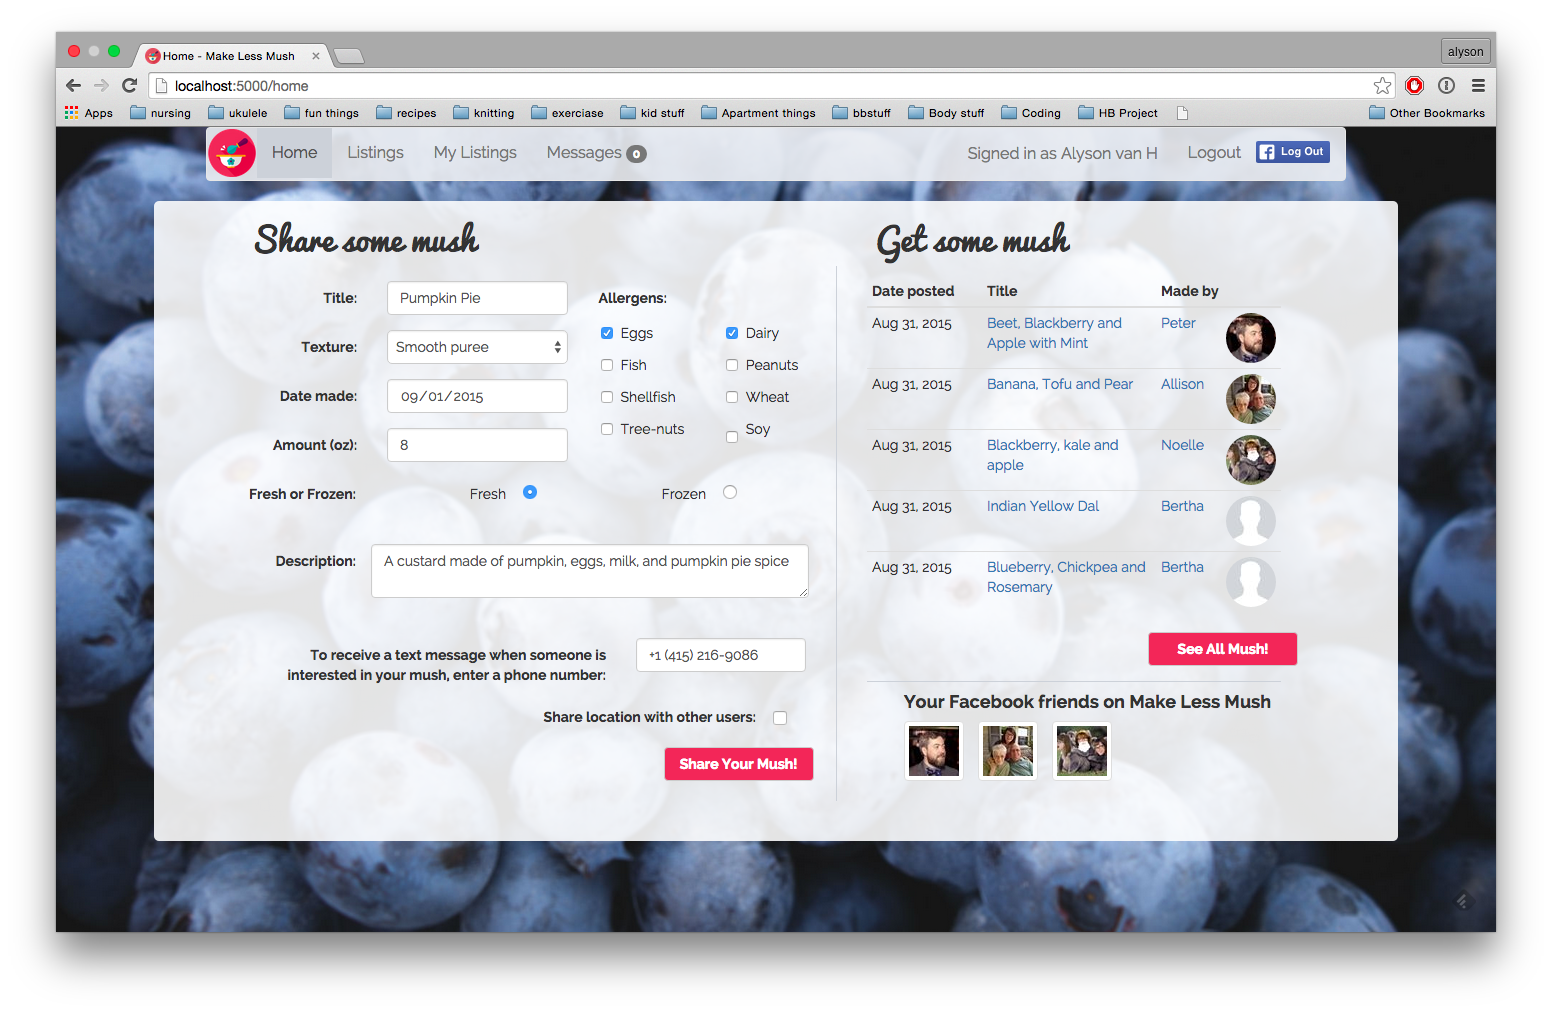
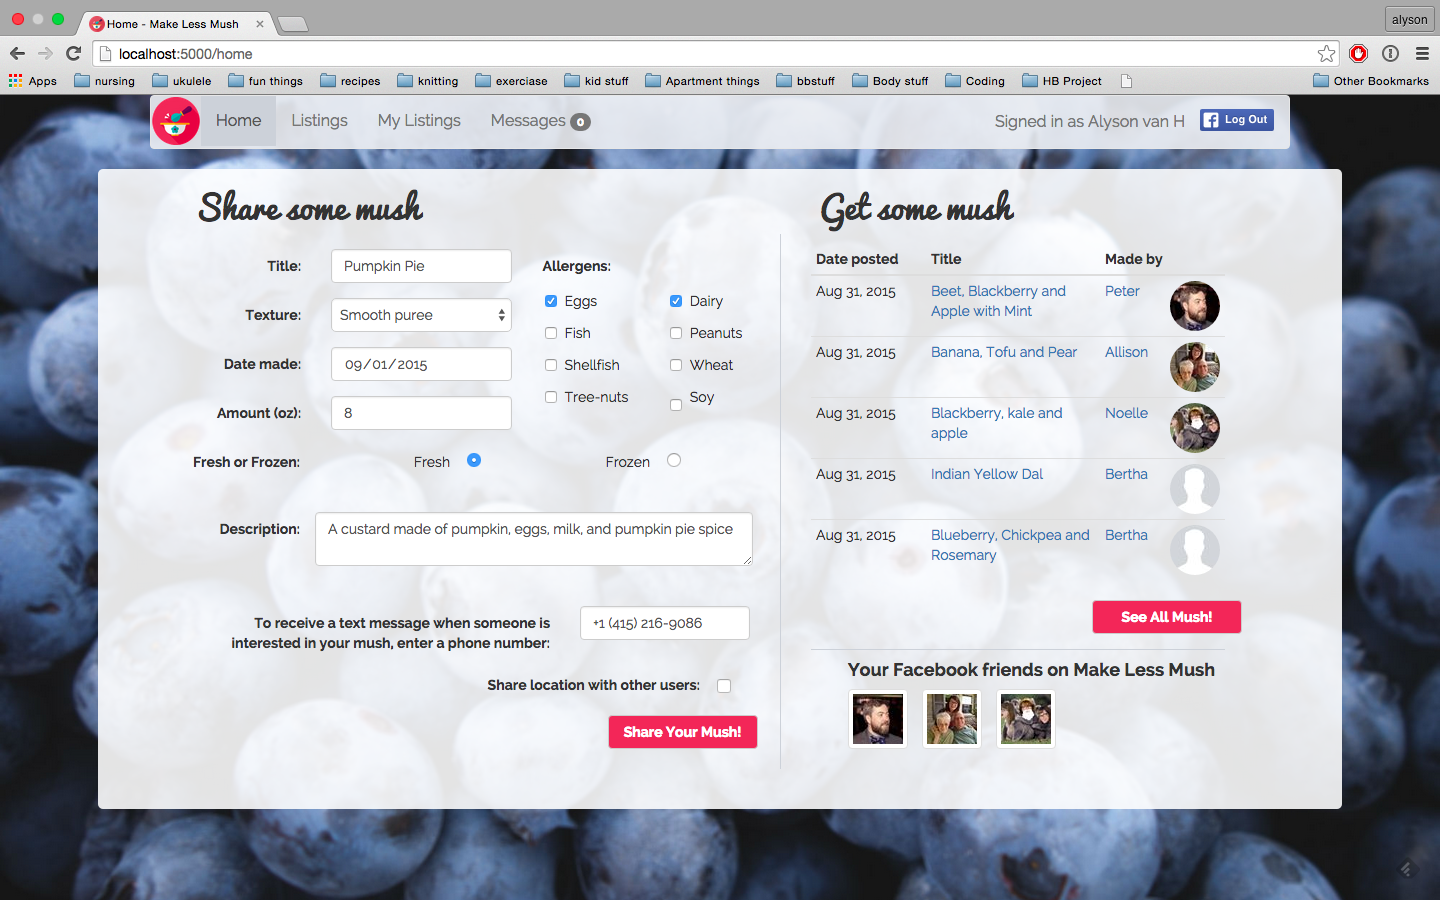
hiding logout link, update screenshots

diff --git a/templates/base.html b/templates/base.html
@@ -41,11 +41,13 @@
 	      
 	      <ul class="nav navbar-nav navbar-right">
 	      		<p class="navbar-text navbar-centre">Signed in as {{ user.fname }} {{ user.lname}}</p>
+	      	<div style="display: none"
 	      	{% if 'user_id' in session %}
 	      		<li><a href='/logbutton'>Logout</a></li>
     		{% else %}
 		    	<li><a href='/logbutton'><button type="button" class="btn btn-default navbar-btn">Login</button></a></li>
     		{% endif %}
+    		</div>
 	        <li class="fb-login-button" data-max-rows="1" data-size="medium" data-show-faces="false" data-auto-logout-link="true" scope='public_profile,email,user_friends'></li>
 	      </ul>
 	    </div><!-- /.navbar-collapse -->
